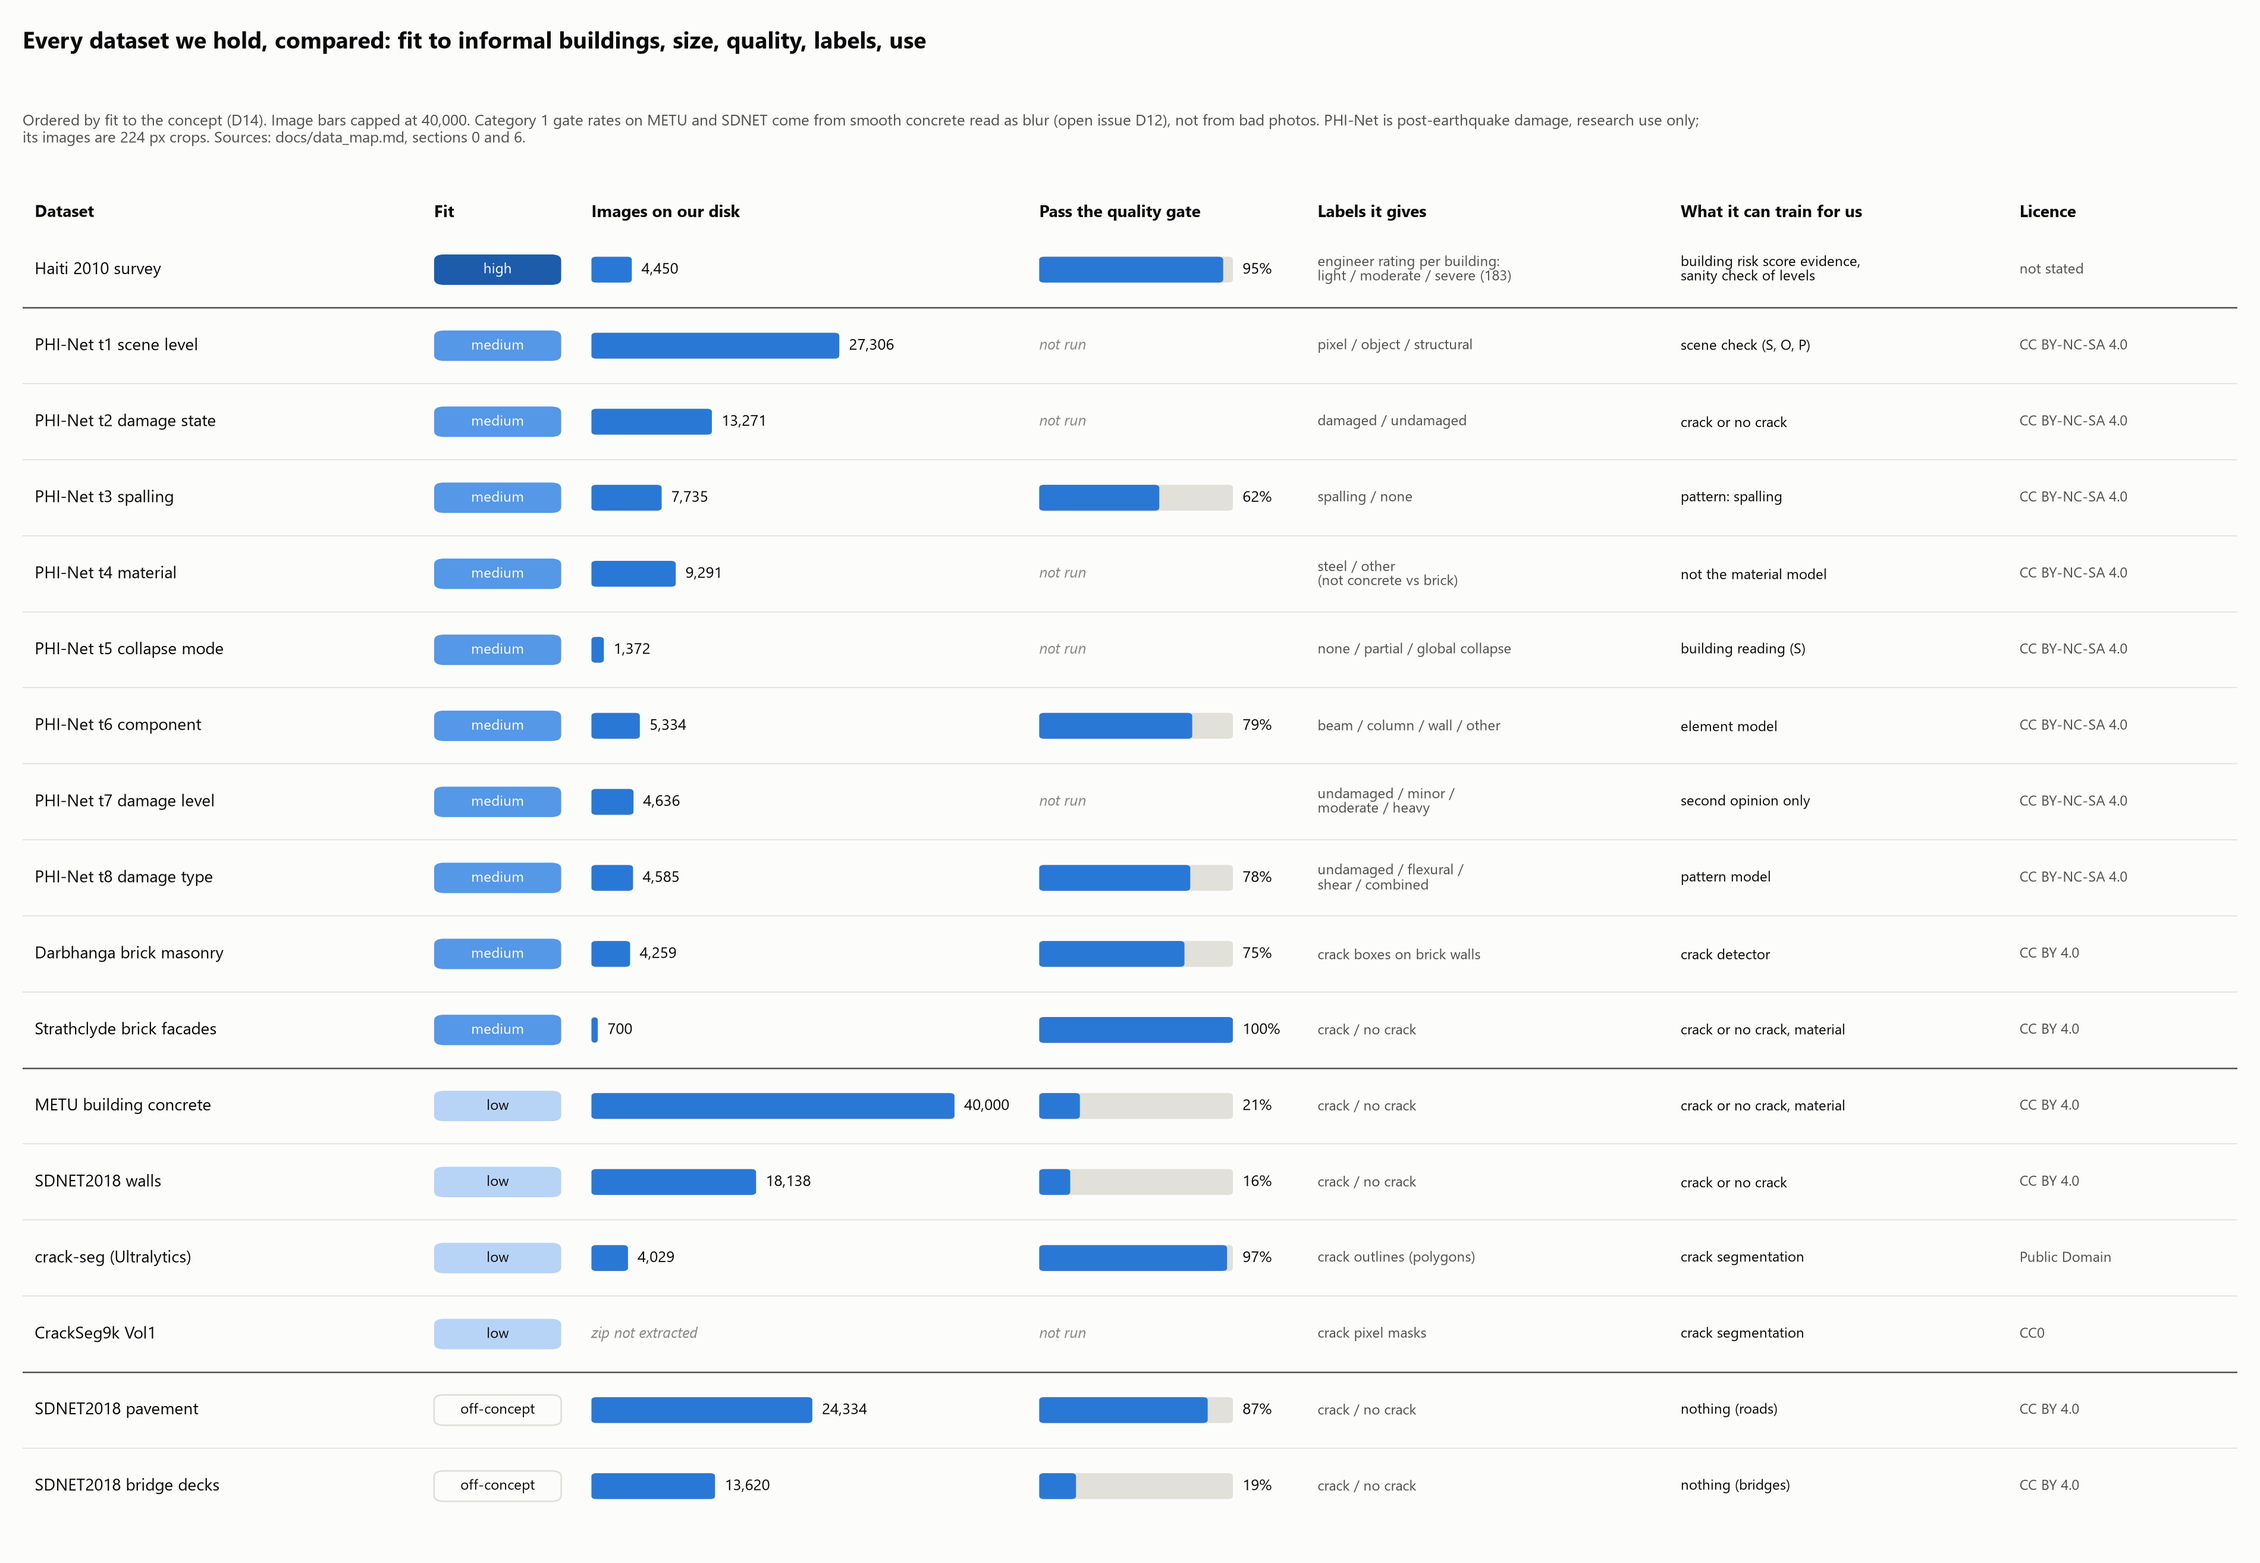
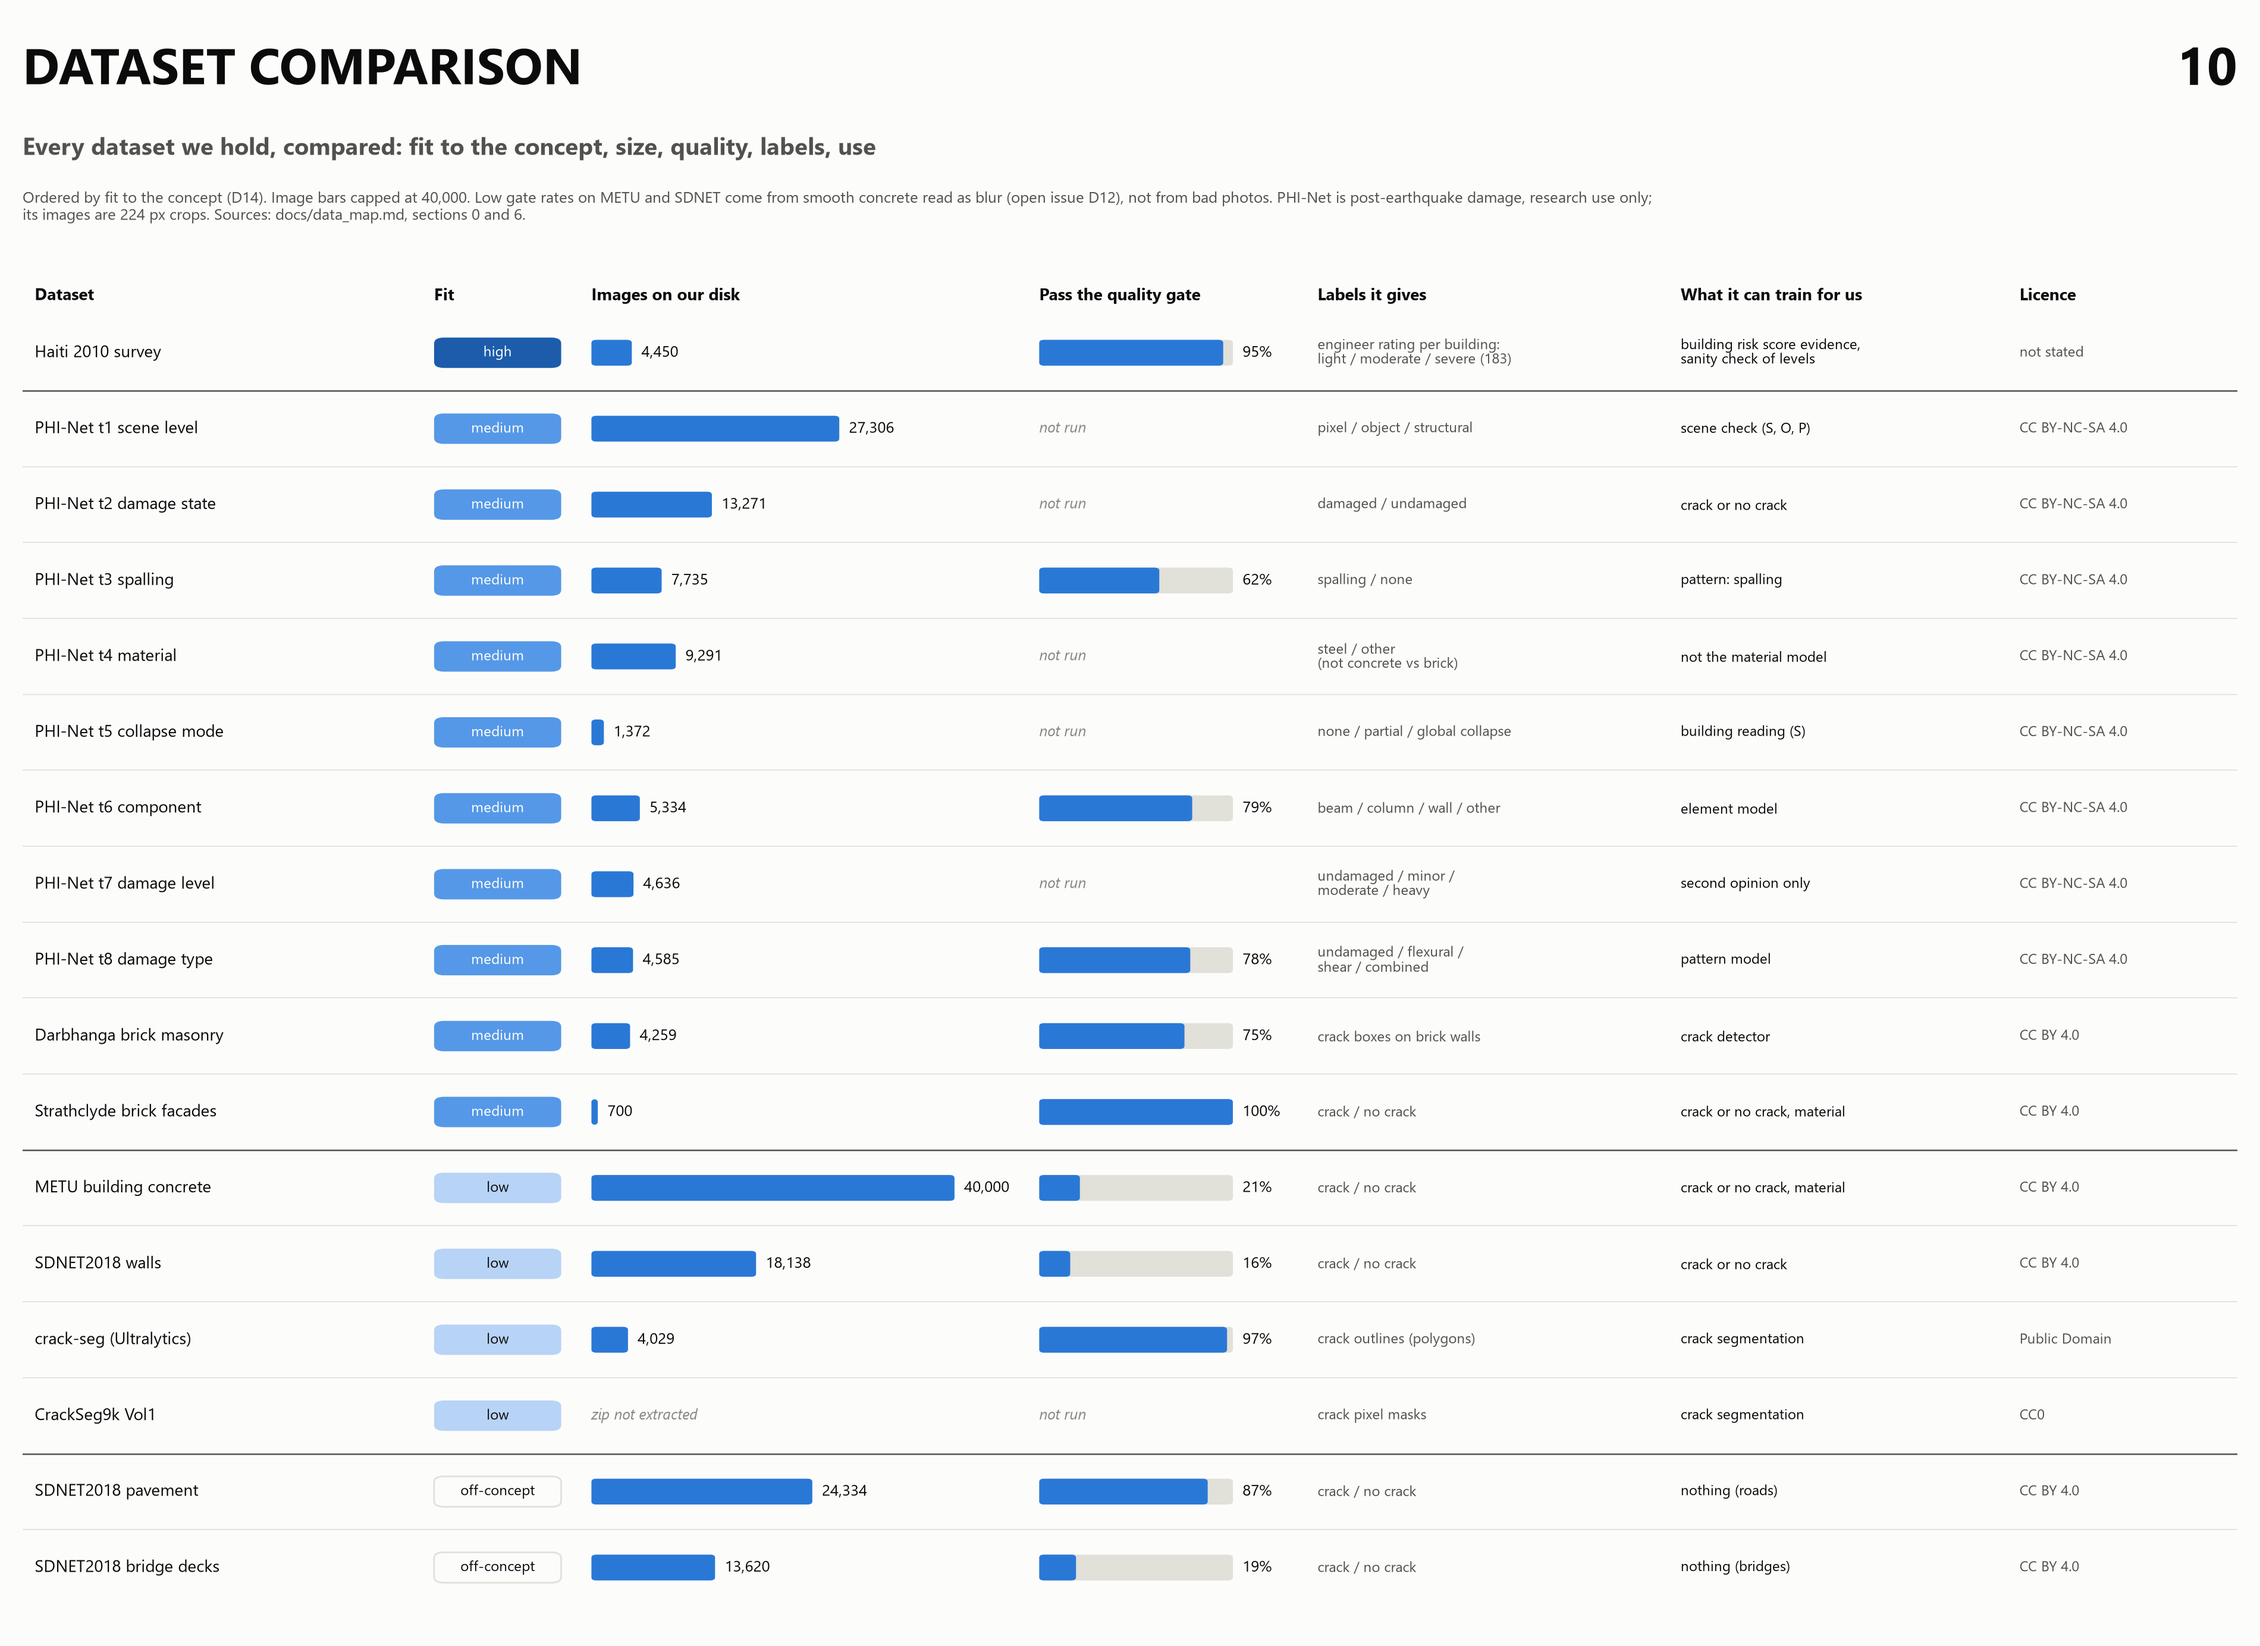
Figure 10 title: DATASET COMPARISON in the house title style; note says Low gate rates

diff --git a/src/viz/figures.py b/src/viz/figures.py
@@ -1075,7 +1075,7 @@ HELD_MISSING = {"CrackSeg9k": "zip not extracted"}
 
 def dataset_comparison():
     n = len(HELD)
-    fig, ax = plt.subplots(figsize=(19, 0.62 * n + 2.6))
+    fig, ax = plt.subplots(figsize=(19, 0.62 * n + 3.3))
     # x layout: name | fit | images bar | gate bar | labels | trains | licence
     x_fit, x_img, w_img, x_gate, w_gate, x_lab, x_use, x_lic, x_end = 3.3, 4.6, 3.0, 8.3, 1.6, 10.6, 13.6, 16.4, 18.2
     top = 40_000
@@ -1117,14 +1117,17 @@ def dataset_comparison():
     ax.set_xlim(-0.1, x_end)
     ax.set_ylim(n - 0.4, -1.2)
     ax.set_axis_off()
-    fig.suptitle("Every dataset we hold, compared: fit to informal buildings, size, quality, labels, use",
-                 x=0.01, ha="left", fontsize=14, weight="bold")
-    fig.text(0.01, 1 - 0.95 / fig.get_figheight(),
-             "Ordered by fit to the concept (D14). Image bars capped at 40,000. Category 1 gate rates on METU and SDNET "
+    H, W = fig.get_figheight(), fig.get_figwidth()  # title as in the other figures: 38 pt on a 24 in figure
+    fig.text(0.01, 1 - 0.6 / H, "DATASET COMPARISON", fontsize=38 * W / 24, weight="bold", color=INK, va="center")
+    fig.text(0.99, 1 - 0.6 / H, "10", fontsize=40 * W / 24, weight="bold", color=INK, va="center", ha="right")
+    fig.text(0.01, 1 - 1.25 / H, "Every dataset we hold, compared: fit to the concept, size, quality, labels, use",
+             fontsize=18 * W / 24, weight="bold", color=INK_2, va="center")
+    fig.text(0.01, 1 - 1.6 / H,
+             "Ordered by fit to the concept (D14). Image bars capped at 40,000. Low gate rates on METU and SDNET "
              "come from smooth concrete read as blur (open issue D12), not from bad photos. PHI-Net is post-earthquake "
              "damage, research use only;\nits images are 224 px crops. Sources: docs/data_map.md, sections 0 and 6.",
              fontsize=9.5, color=INK_2, va="top")
-    fig.subplots_adjust(left=0.01, right=0.99, top=1 - 1.5 / fig.get_figheight(), bottom=0.02)
+    fig.subplots_adjust(left=0.01, right=0.99, top=1 - 2.2 / H, bottom=0.02)
     return fig
 
 
